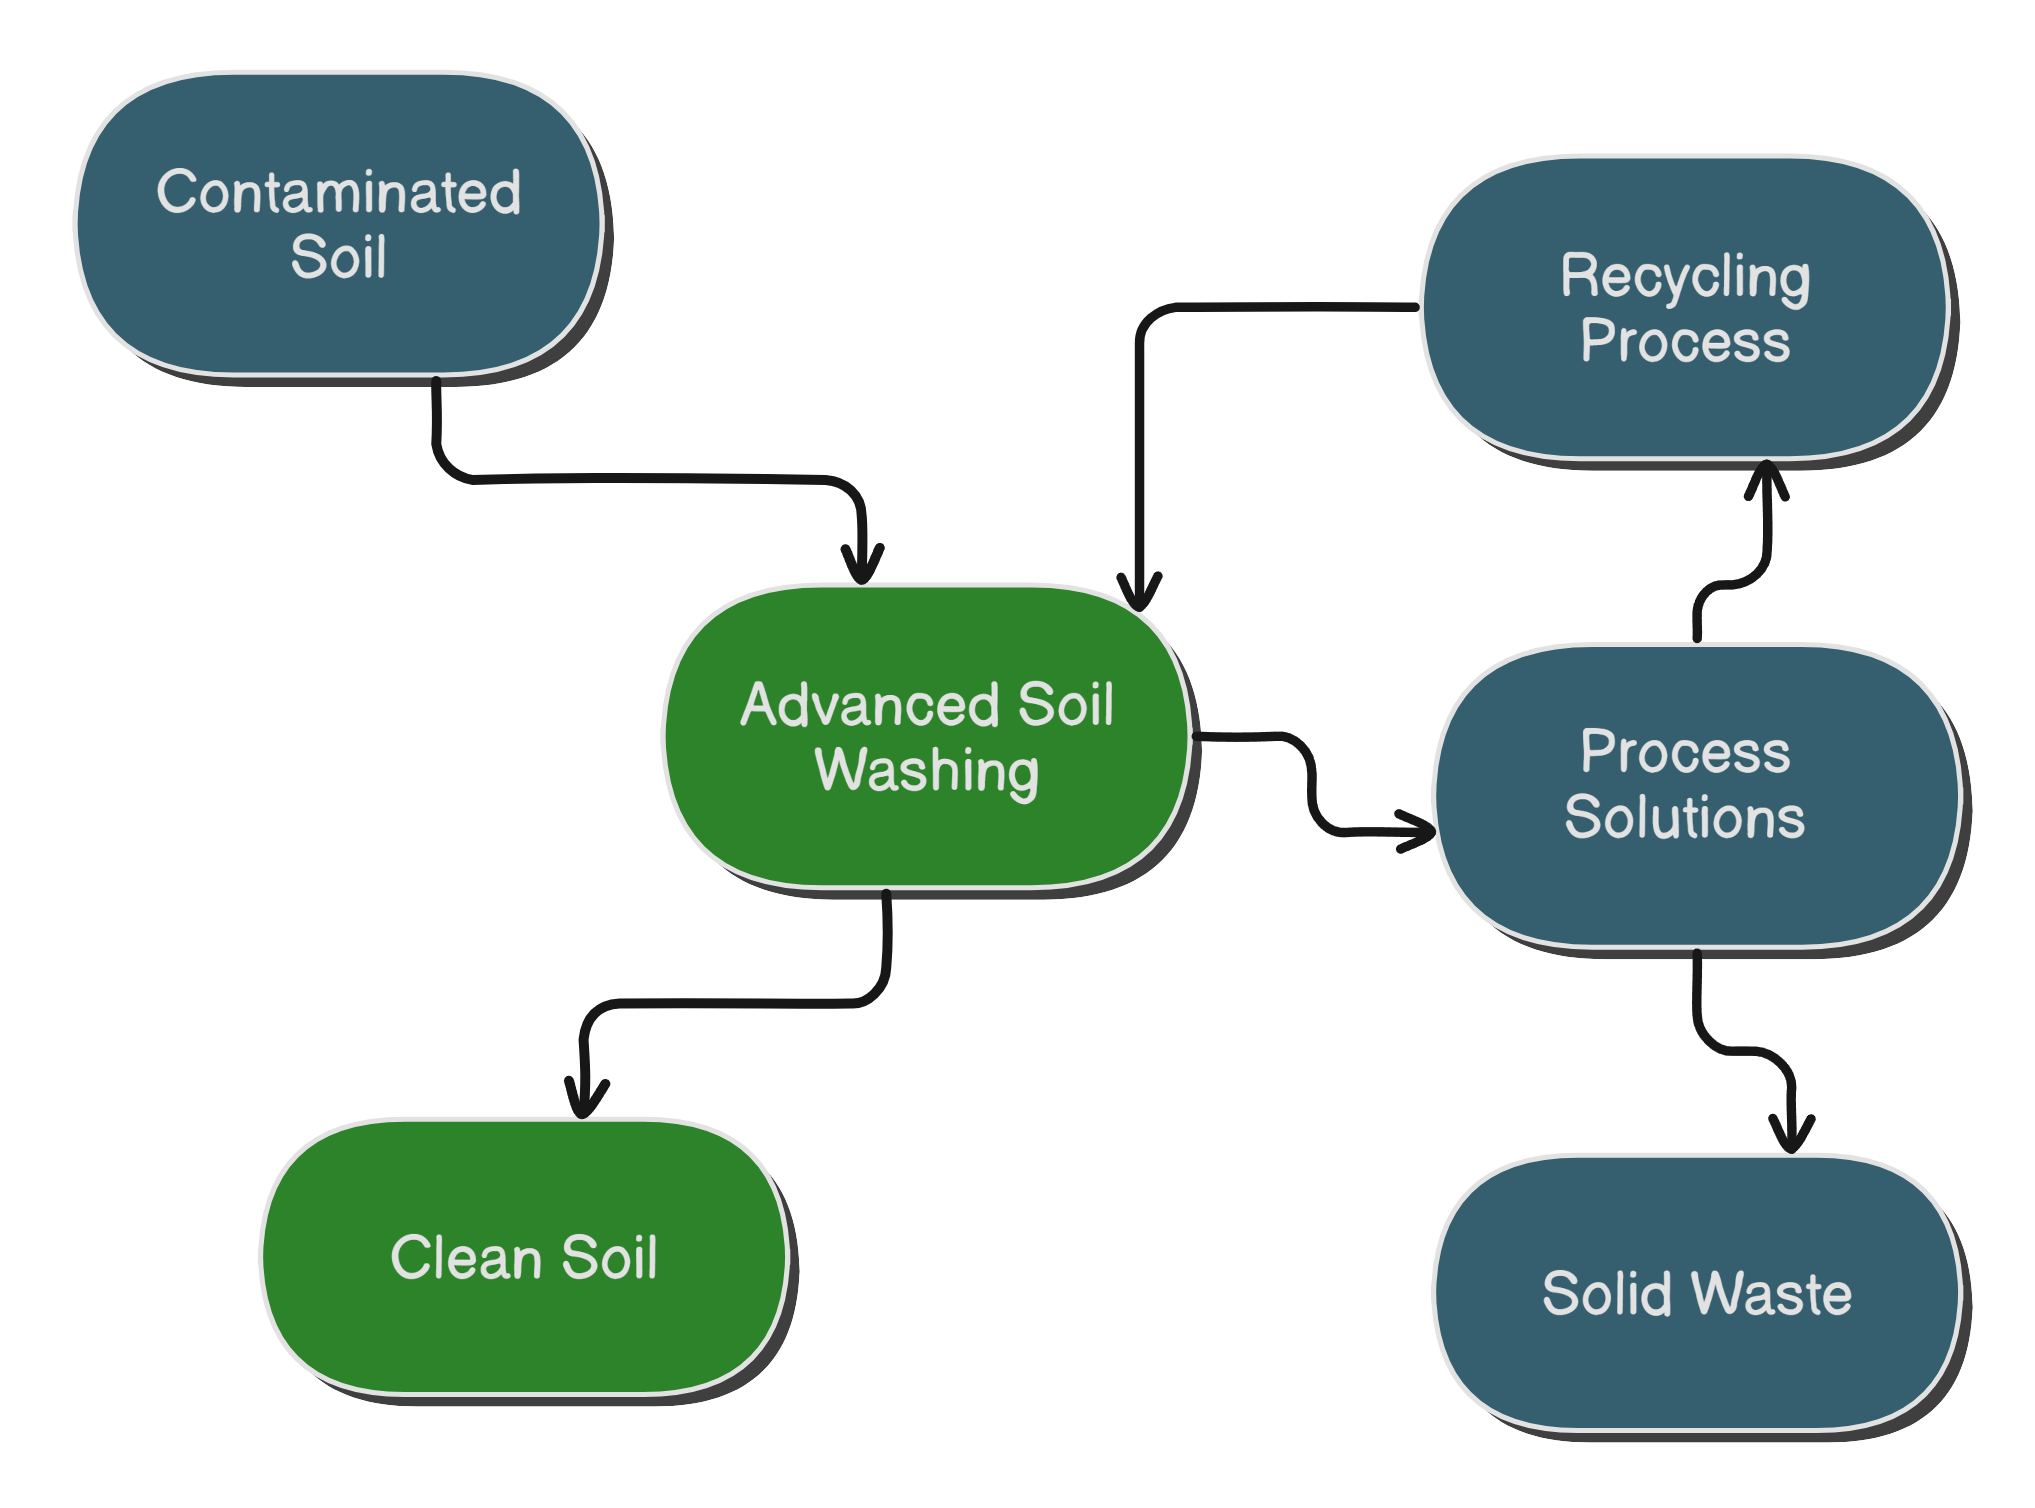
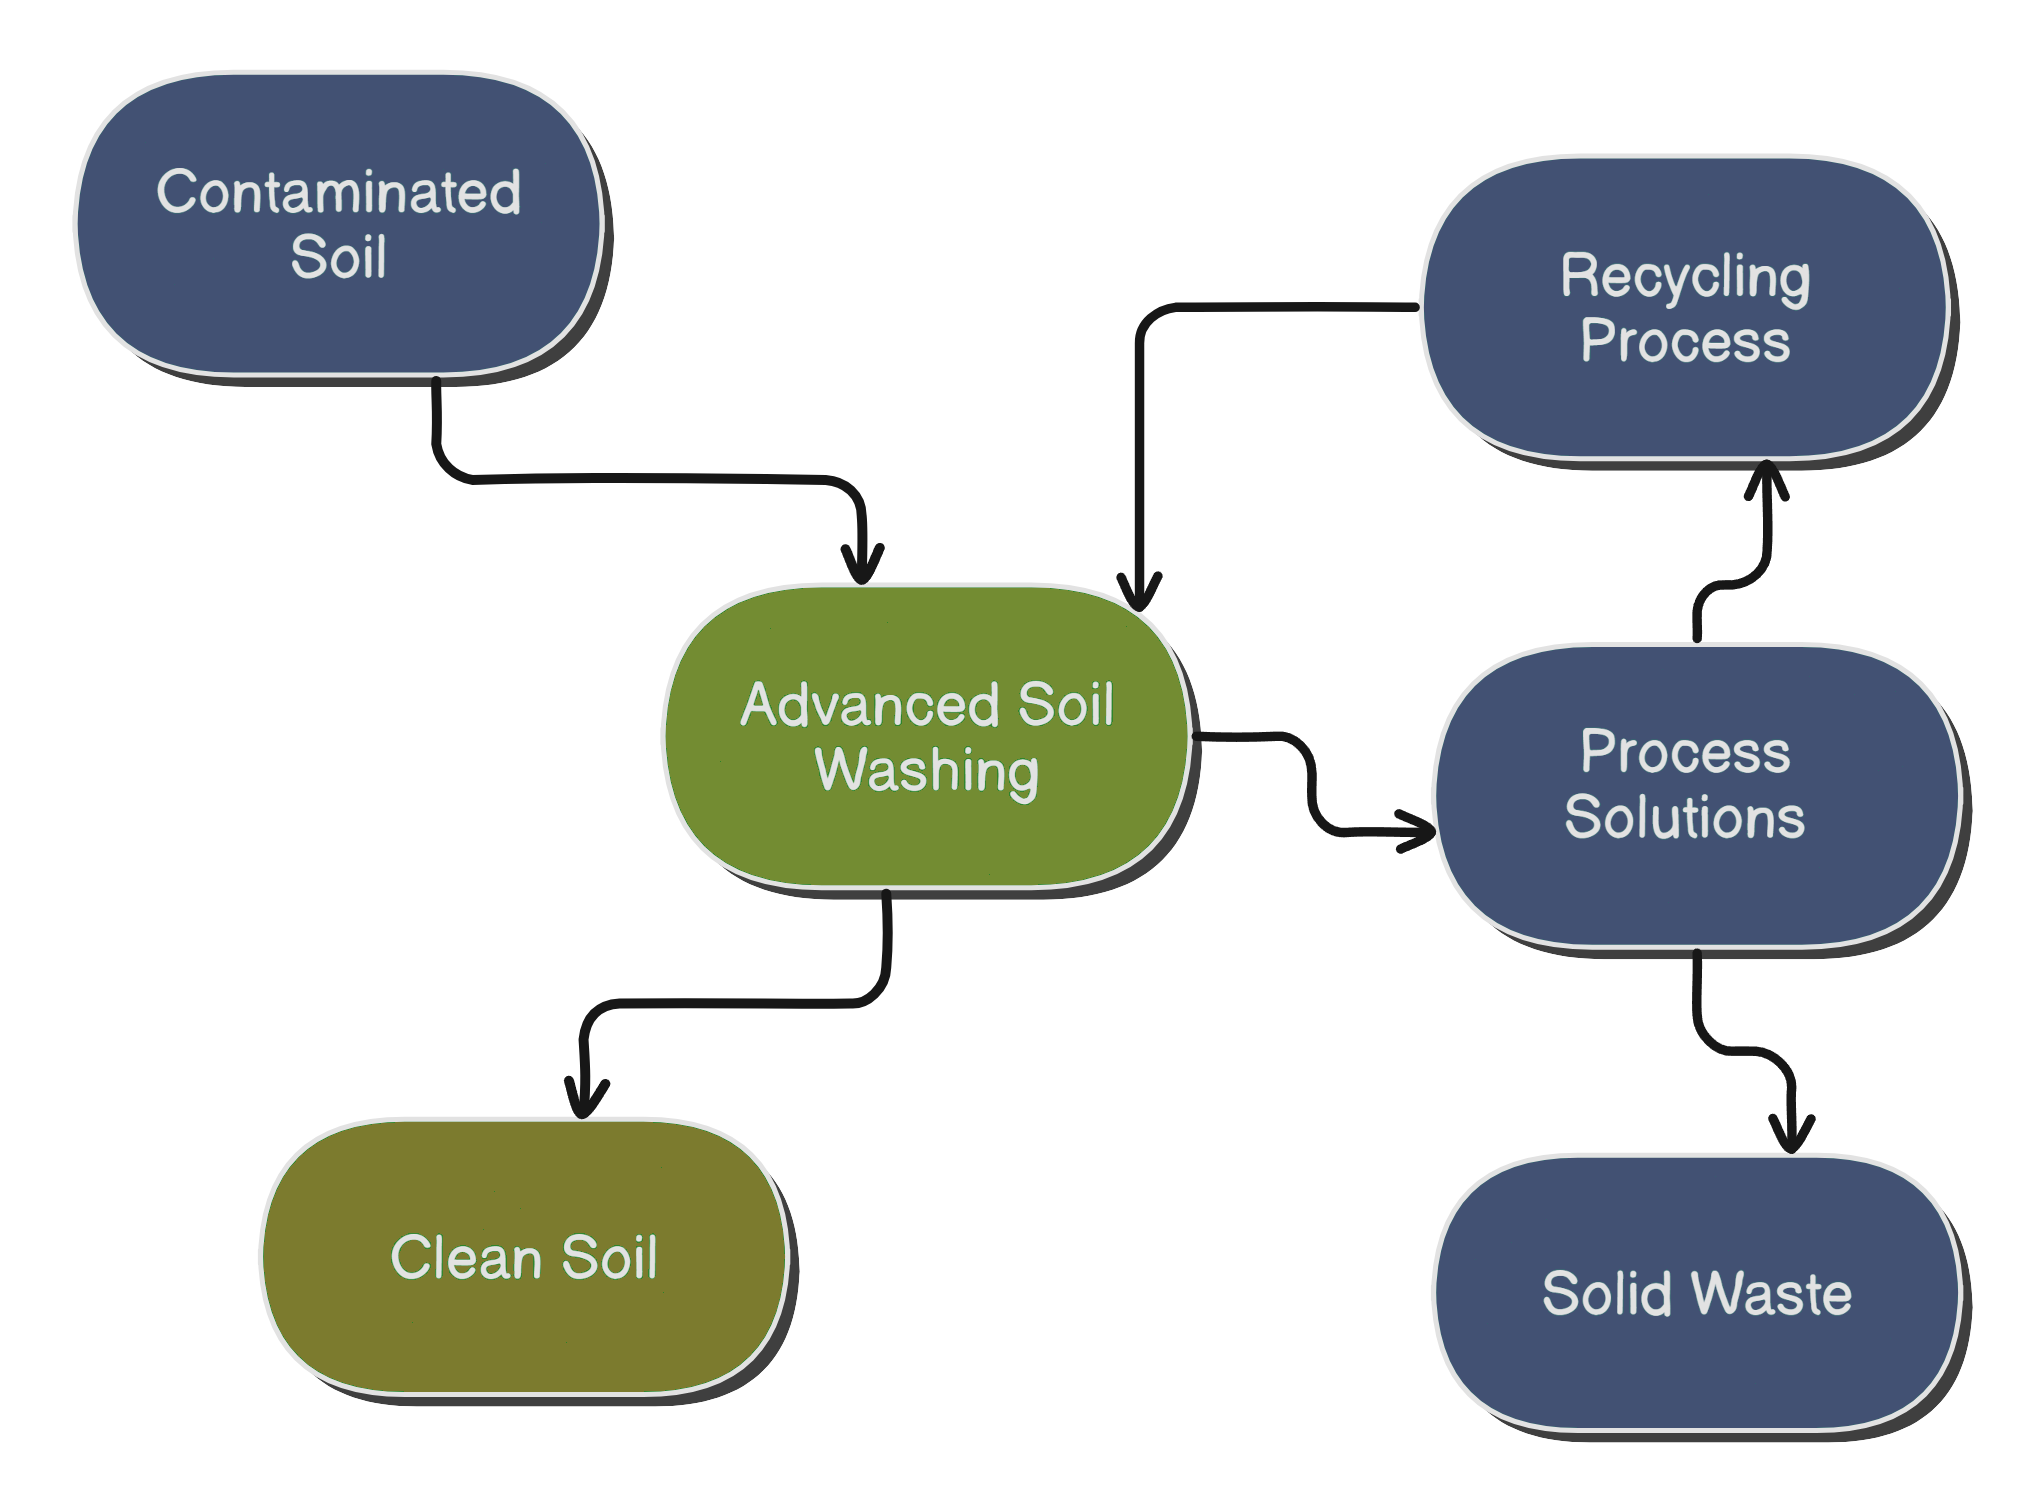
table & diagram colors update

Changed region(s): [[0.3096, 0.374, 0.5882, 0.5922], [0.1238, 0.7168, 0.4025, 0.935]]

diff --git a/components/RemediationTable.tsx b/components/RemediationTable.tsx
@@ -78,7 +78,7 @@ const remediationData = [
     cost: "?",
   },
   {
-    technology: "",
+    technology: "ReSoil®",
     inUseBy: "Remediation companies",
     effectiveForRemoval: "YES (up to 95 %)",
     applicableHighlyContaminated: "YES",
@@ -110,30 +110,45 @@ export function RemediationTable() {
         <TableBody>
           {remediationData.map((row, index) => (
             <TableRow key={row.technology}>
-              <TableCell className="font-medium">{row.technology}</TableCell>
               <TableCell className={cn(
-                index === remediationData.length - 1 ? "bg-[#90EE90]" : ""
+                "font-bold",
+                index === remediationData.length - 1 ? "bg-[#90EE90]/60" : ""
+              )}>{row.technology}</TableCell>
+              <TableCell className={cn(
+                index === remediationData.length - 1 ? "bg-[#90EE90]/60" : ""
               )}>{row.inUseBy}</TableCell>
               <TableCell className={cn(
-                index === remediationData.length - 1 ? "bg-[#90EE90]" : ""
+                index === remediationData.length - 1 ? "bg-[#90EE90]/60" : "",
+                index !== remediationData.length - 1 && row.effectiveForRemoval.includes("YES") ? "bg-[#90EE90]/20" : "",
+                index !== remediationData.length - 1 && row.effectiveForRemoval === "NO" ? "bg-[#FFB6B6]/20" : ""
               )}>{row.effectiveForRemoval}</TableCell>
               <TableCell className={cn(
-                index === remediationData.length - 1 ? "bg-[#90EE90]" : ""
+                index === remediationData.length - 1 ? "bg-[#90EE90]/60" : "",
+                index !== remediationData.length - 1 && row.applicableHighlyContaminated === "YES" ? "bg-[#90EE90]/20" : "",
+                index !== remediationData.length - 1 && row.applicableHighlyContaminated === "NO" ? "bg-[#FFB6B6]/20" : ""
               )}>{row.applicableHighlyContaminated}</TableCell>
               <TableCell className={cn(
-                index === remediationData.length - 1 ? "bg-[#90EE90]" : ""
+                index === remediationData.length - 1 ? "bg-[#90EE90]/60" : "",
+                index !== remediationData.length - 1 && row.applicableAllSoils === "YES" ? "bg-[#90EE90]/20" : "",
+                index !== remediationData.length - 1 && row.applicableAllSoils === "NO" ? "bg-[#FFB6B6]/20" : ""
               )}>{row.applicableAllSoils}</TableCell>
               <TableCell className={cn(
-                index === remediationData.length - 1 ? "bg-[#90EE90]" : ""
+                index === remediationData.length - 1 ? "bg-[#90EE90]/60" : "",
+                index !== remediationData.length - 1 && row.applicableMultiContaminated === "YES" ? "bg-[#90EE90]/20" : "",
+                index !== remediationData.length - 1 && row.applicableMultiContaminated === "NO" ? "bg-[#FFB6B6]/20" : ""
               )}>{row.applicableMultiContaminated}</TableCell>
               <TableCell className={cn(
-                index === remediationData.length - 1 ? "bg-[#90EE90]" : ""
+                index === remediationData.length - 1 ? "bg-[#90EE90]/60" : "",
+                index !== remediationData.length - 1 && row.preservesSoil === "YES" ? "bg-[#90EE90]/20" : "",
+                index !== remediationData.length - 1 && row.preservesSoil === "NO" ? "bg-[#FFB6B6]/20" : ""
               )}>{row.preservesSoil}</TableCell>
               <TableCell className={cn(
-                index === remediationData.length - 1 ? "bg-[#90EE90]" : ""
+                index === remediationData.length - 1 ? "bg-[#90EE90]/60" : "",
+                index !== remediationData.length - 1 && row.noEmissions === "YES" ? "bg-[#90EE90]/20" : "",
+                index !== remediationData.length - 1 && row.noEmissions === "NO" ? "bg-[#FFB6B6]/20" : ""
               )}>{row.noEmissions}</TableCell>
               <TableCell className={cn(
-                index === remediationData.length - 1 ? "bg-[#90EE90]" : ""
+                index === remediationData.length - 1 ? "bg-[#90EE90]/60" : ""
               )}>{row.cost}</TableCell>
             </TableRow>
           ))}
